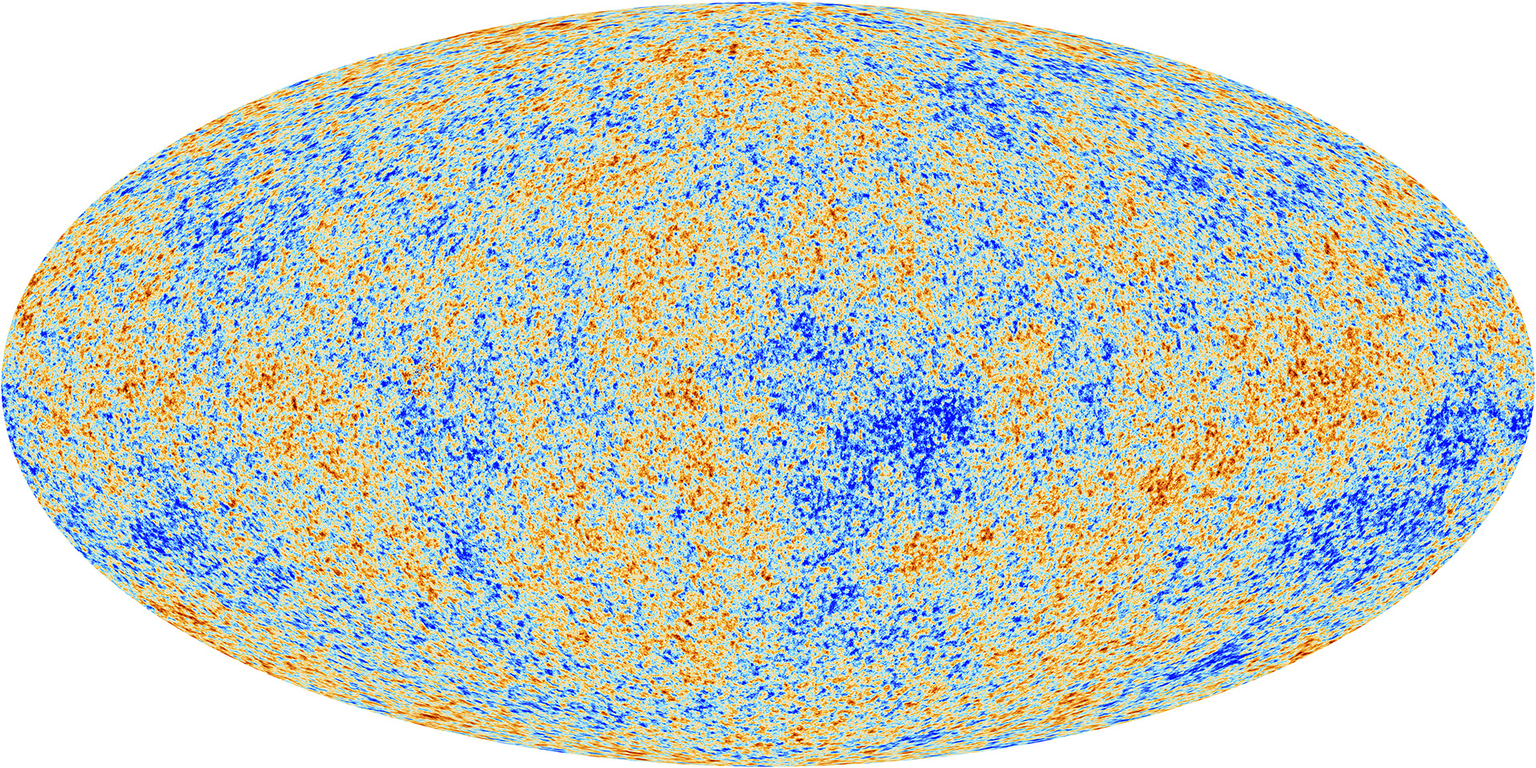
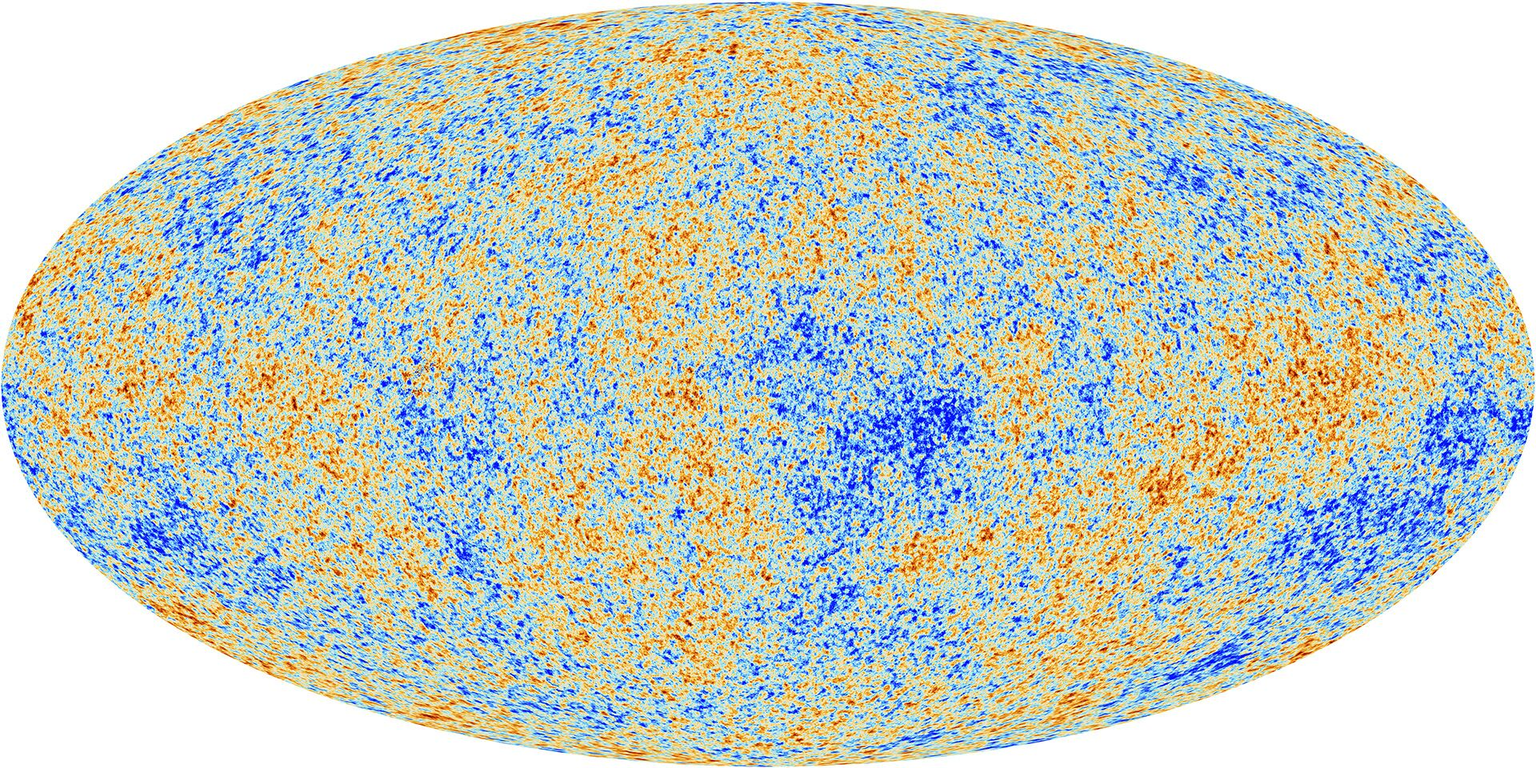
Compress hero images for faster LCP
Recompress Planck_CMB.jpg (2.26MB->770KB) and convert photo.png to
progressive JPEG (653KB->60KB, q80). Overlay filter hides the quality
loss; both heroes verified via jekyll serve.

diff --git a/_pages/about.md b/_pages/about.md
@@ -9,7 +9,7 @@ classes: wide
 header:
   overlay_color: "#3c7fe4ff"
   overlay_filter: "0.4"
-  overlay_image: /assets/images/photo.png  
+  overlay_image: /assets/images/photo.jpg
   actions:
     - label: "CV EN"
       url: "/assets/cv/cv_liuzzo_en.pdf"
